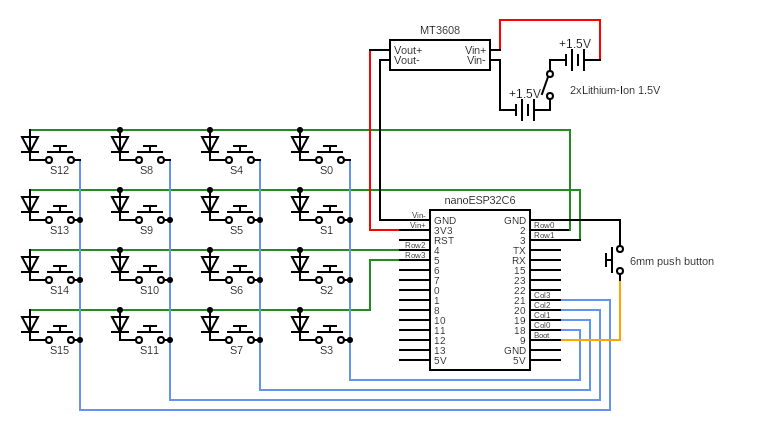
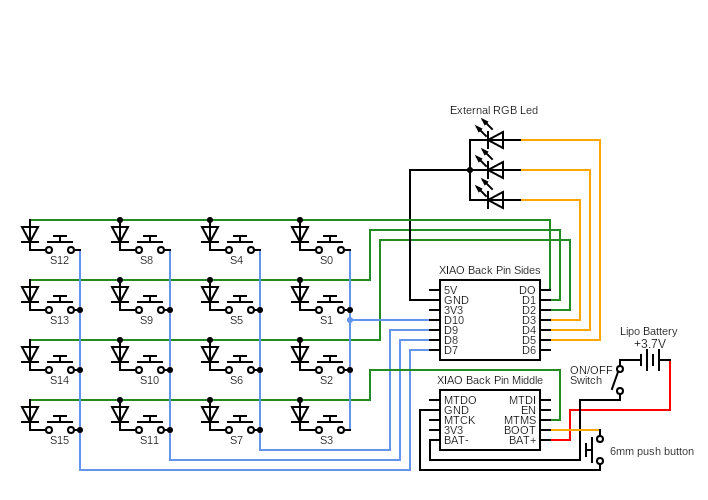
Updated circuit.

Changed region(s): [[0.0311, 0.0295, 0.9944, 0.9455]]

diff --git a/README.md b/README.md
@@ -20,6 +20,7 @@ It gives 3 sorts of inputs, single click, double clicks and long click to add in
 | **Screws** | 4 x M2.5 × 5 mm machine screws |
 | **Case** | 3D-printed PLA enclosure (about 79g with cap switches and supports) |
 | **Switches cap**| 16 x 3D-printed in PLA less than 18g total |
+| **External RGB Led 4 pins**| 1 x RGB Led |
 
 ---
 
@@ -59,7 +60,8 @@ Development began in **Arduino IDE**, later migrated to **VS Code with ESP-IDF v
 ---
 
 ## 🗺 Circuit Schematic
-WIP
+[Link to circuit] (https://www.circuit-diagram.org/editor/c/4865aa39fb9b4097a776ca335299ee0a)
+
 ![Circuit Schematics](Pictures/circuitSchematics.png)
 ---
 
@@ -77,8 +79,9 @@ Calculated from **unit price × quantity used**:
 | 6mm Push Button | 2.23 € / 50 | 1 | 0.045 € | **0.04 €** |
 | ON/OFF Switch | 1.41 € / 5 | 1 | 0.28 € | **0.28 €** |
 | 3.7V 1000mAh 603048 Lipo Battery  | 9.49 € / 3 | 1 | 3.16 € | **3.16 €** |
+| External RGB Led | 1.29 € / 50 | 1 | 0.03 € | ** 0.03 €** |
    
-### **➡ Total Cost per Macropad: 20.45 €**
+### **➡ Total Cost per Macropad: 20.44 €**
 
 ---
 
